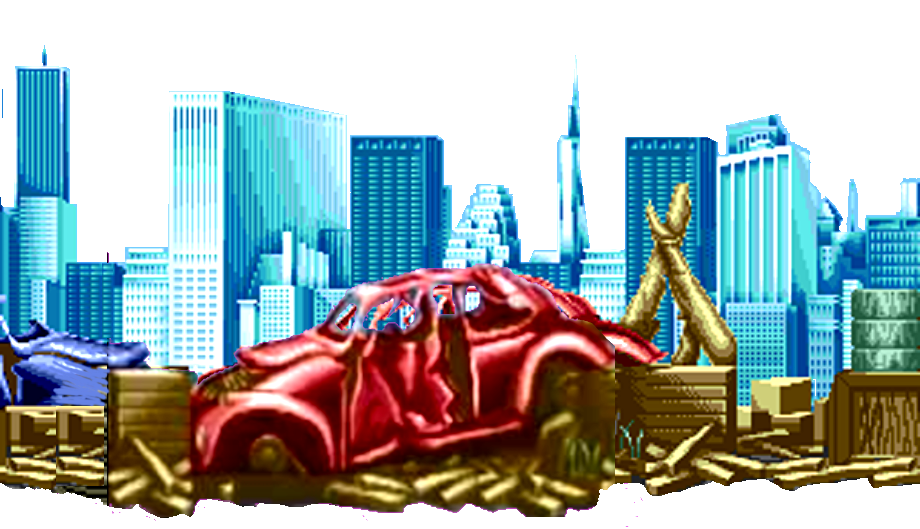
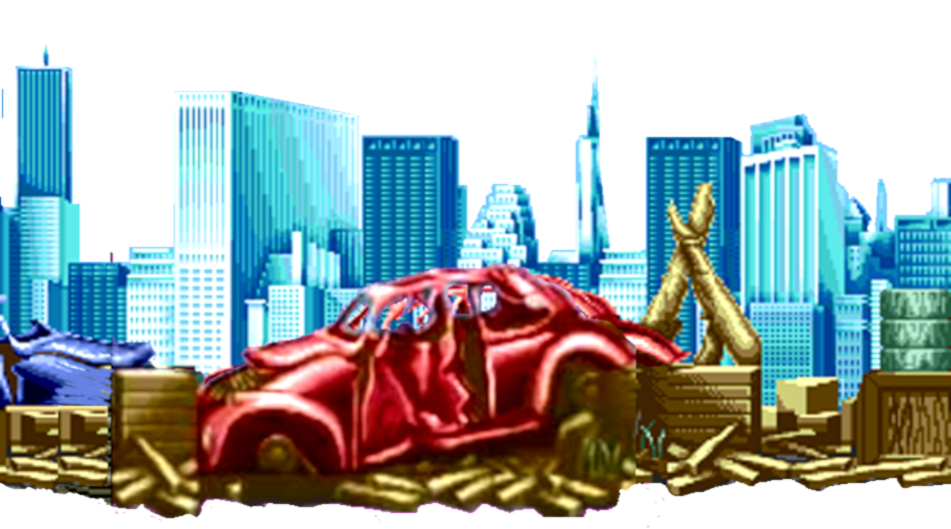
FF Background extension 1

diff --git a/other/fight-final/level.js b/other/fight-final/level.js
@@ -100,6 +100,14 @@ class MainScene extends Phaser.Scene {
             sprite = this.add.sprite(8.5 * (tileWidth + 88) + shift, this.sys.canvas.height - 385 + 27, 'wreck');
             sprite.setDepth(-5);
             this.spriteGroup.add(sprite);
+
+	        for (let i = 13; i < 17; i++) {
+                const x = i * (tileWidth + 22) + shift;
+                let texture = i == 15 ? 'door-wall' : 'window-wall';
+                const sprite = this.add.sprite(x, this.sys.canvas.height - 385 + 5, texture);
+                sprite.setDepth(-5);
+                this.spriteGroup.add(sprite);
+            }
         }
 
         for (let i = 0; i < 75; i++){
